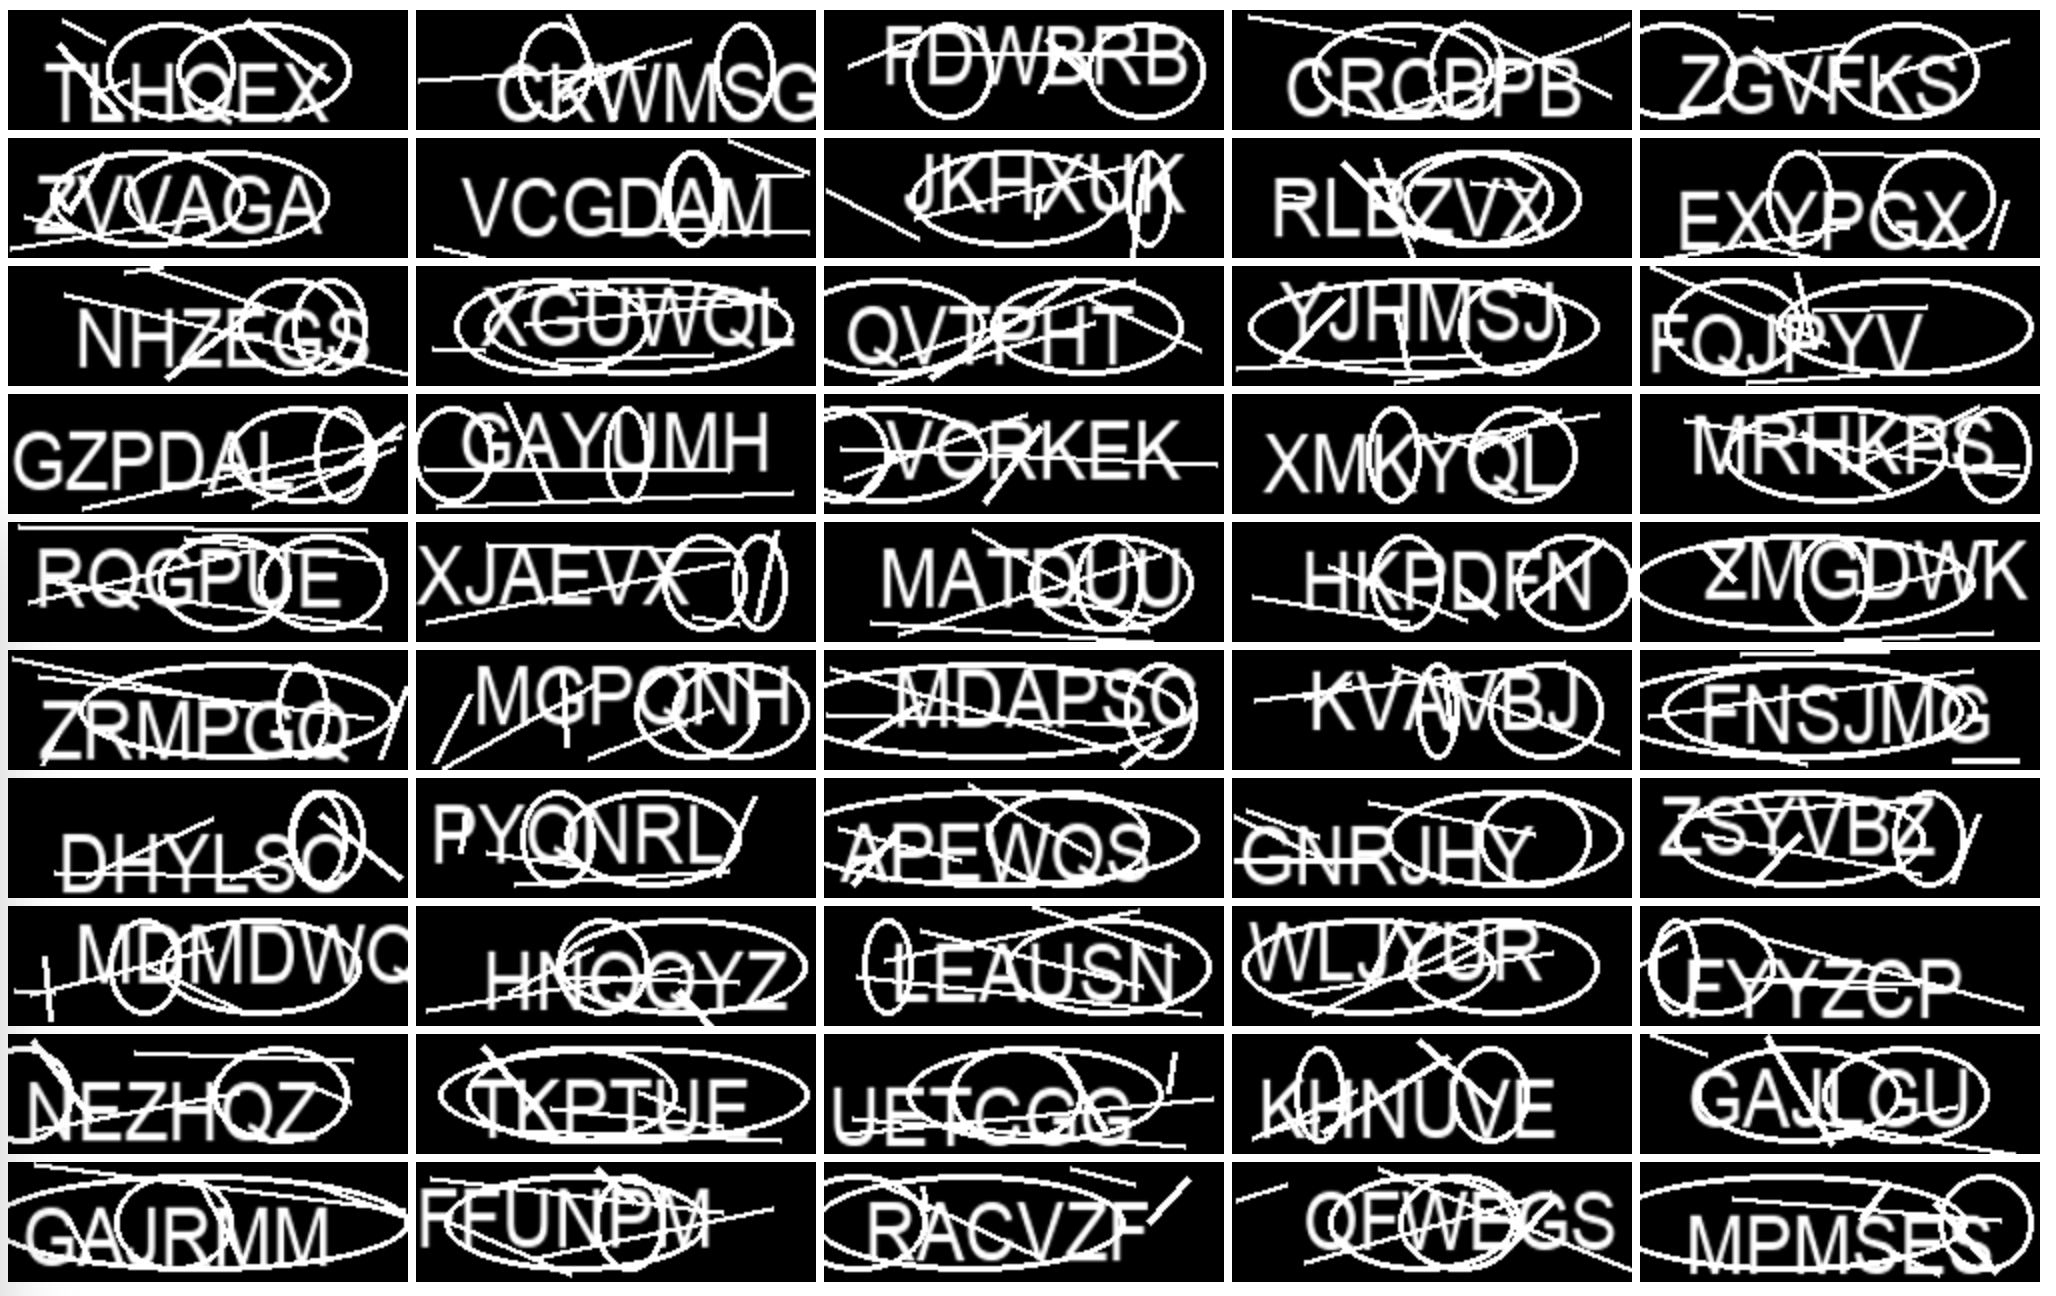
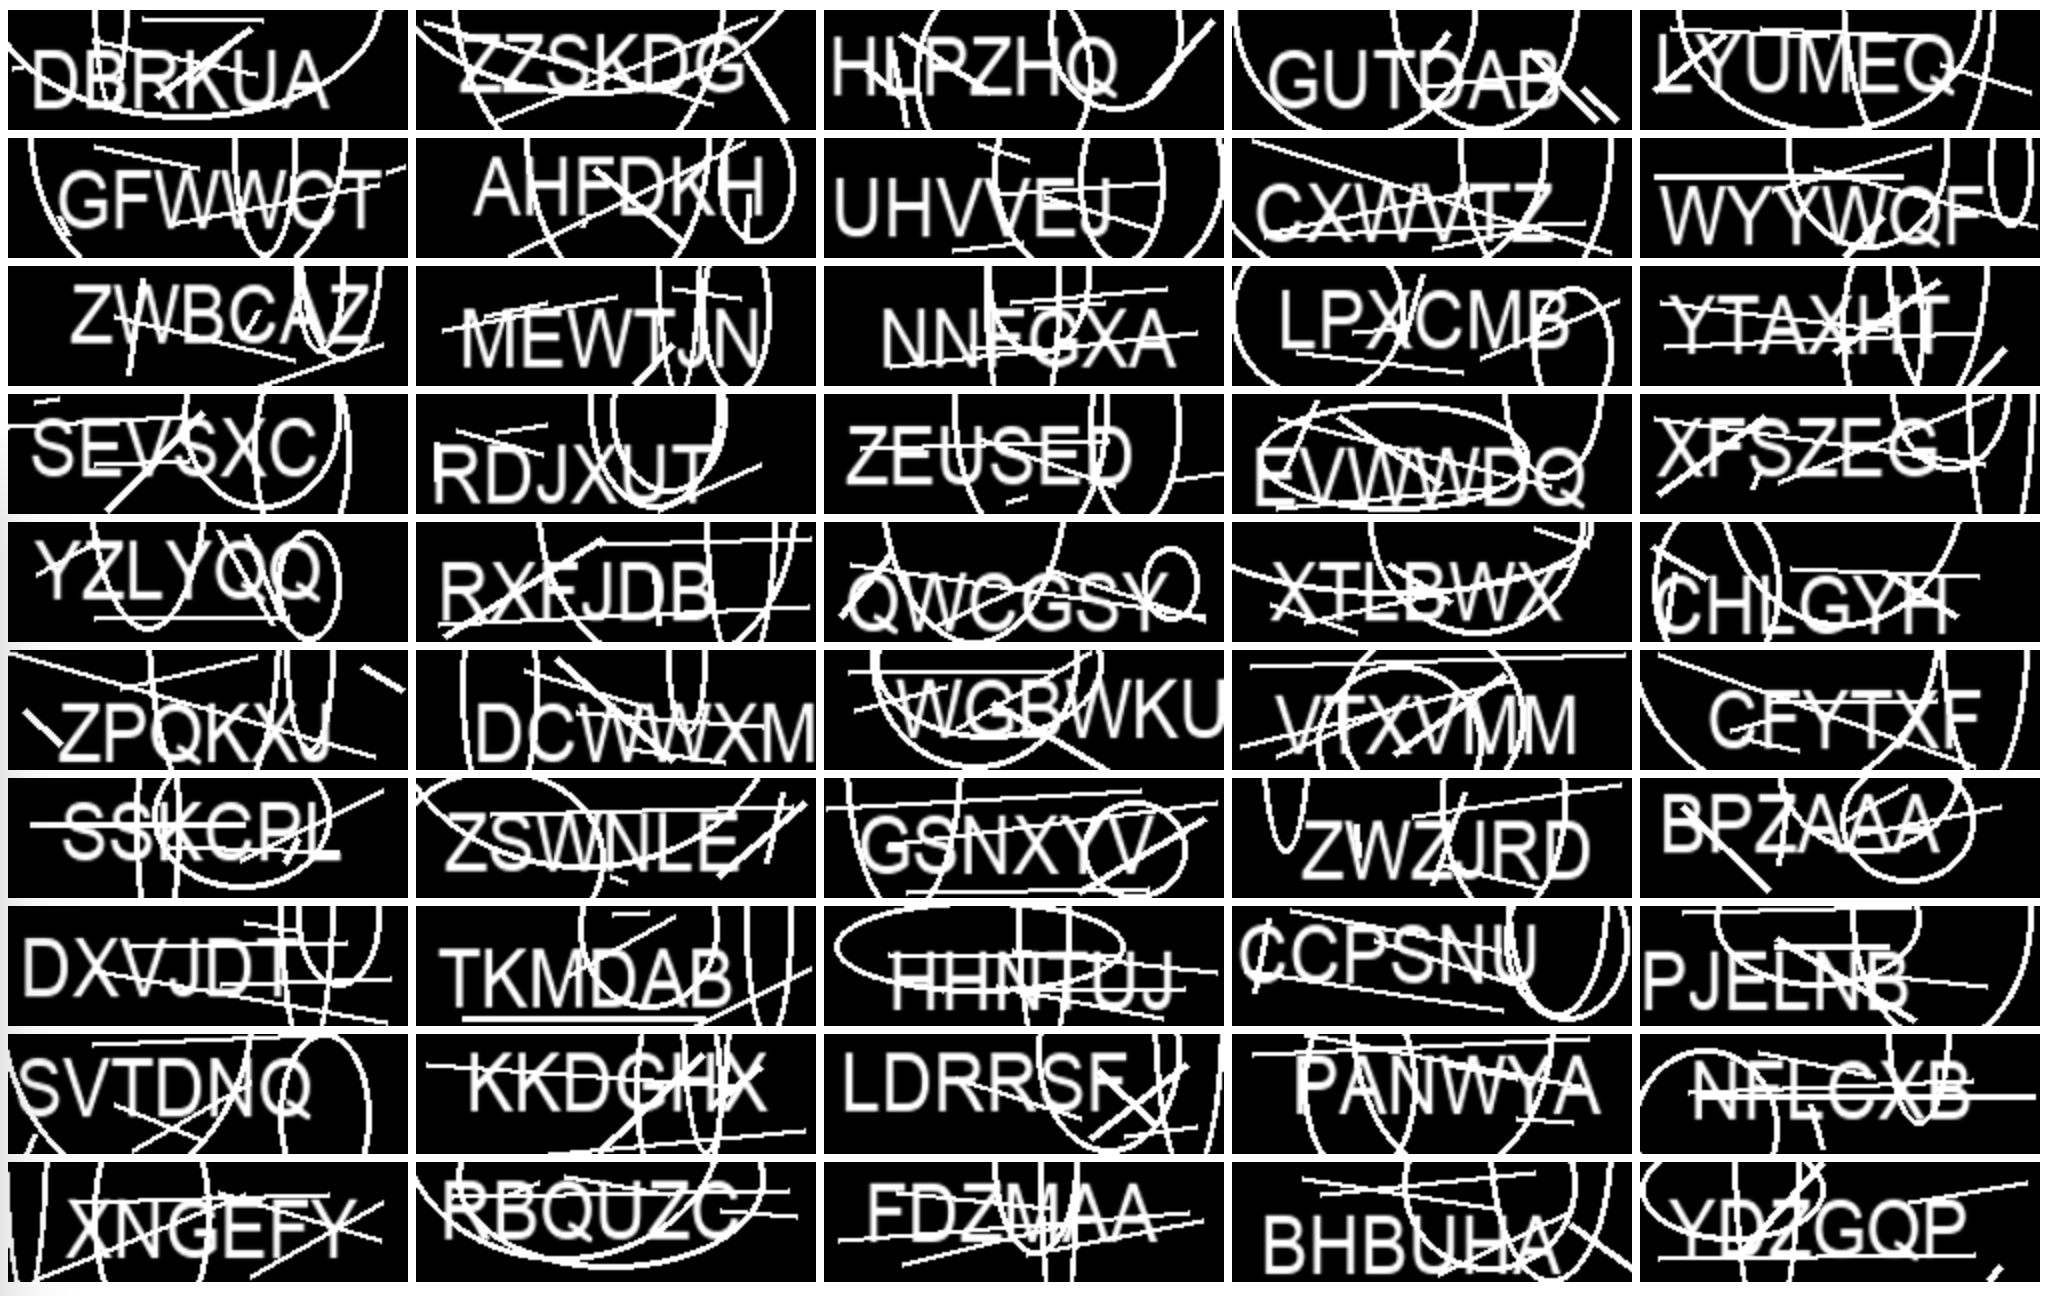
improved ellip rng

diff --git a/flask_simple_captcha/captcha_generation.py b/flask_simple_captcha/captcha_generation.py
@@ -89,9 +89,10 @@ class CAPTCHA:
         for i in range(lines):
             if i % 3 == 0:
                 # ellipse
-                x0 = randint(-1 * xinc, x - (xinc * 2))
+                x0 = randint(-1 * xinc, x - (xinc * 1))
                 x1 = randint(x0 + xinc, x)
-                y0, y1 = yinc, y - yinc
+                y0 = randint(-1 * y * 2, yinc * 2)
+                y1 = randint(y // 2 + yinc, y + (y // 2))
                 draw.ellipse((x0, y0, x1, y1), width=3)
             else:
                 x0 = randint(0, x)

diff --git a/setup.py b/setup.py
@@ -7,7 +7,7 @@ with open('README.md', 'r') as r:
 
 setup(
     name='flask-simple-captcha',
-    version='5.2.1',
+    version='5.2.2',
     description=(
         'Extremely simple, "Good Enough" captcha implemention for flask forms.'
         ' No server side session library required.'
